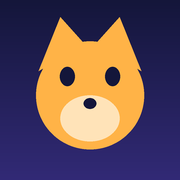
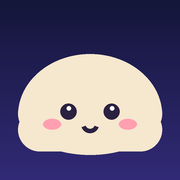
Design Kosmos fix; Squishy-Sammelfiguren statt Emoji-Karten
Claude-Session: https://claude.ai/code/session_012qiEtfc3RtZR4Yoy45UriJ

diff --git a/js/app.js b/js/app.js
@@ -1,11 +1,7 @@
 import { SUBJECTS, GRADES, CARDS, RARITY, ligaFor, buildQuestions, rollCard } from './data.js';
+import { squishy } from './squishy.js';
 import { load, save, newProfile, today, yesterday, weekKey, daysUntil } from './store.js';
 
-const THEMES = {
-  cosmos: { name: 'Kosmos', emoji: '🚀', blurb: 'Dunkles Weltall, Sternenwesen' },
-  wald:   { name: 'Waldlichtung', emoji: '🌲', blurb: 'Warm & ruhig, Papier-Look' },
-  arena:  { name: 'Arena', emoji: '🏟', blurb: 'Hell & kontrastreich, Comic-Rand' },
-};
 const PATH_NODES = 8;
 const SESSIONS_FOR_BOSS = 3;
 const SESSIONS_GOAL = 5;
@@ -17,12 +13,6 @@ const $app = document.getElementById('app');
 const esc = (s) => String(s).replace(/[&<>"']/g, (c) => ({ '&': '&amp;', '<': '&lt;', '>': '&gt;', '"': '&quot;', "'": '&#39;' }[c]));
 const P = () => S.profiles.find((p) => p.id === S.active) || null;
 const commit = () => { save(S); render(); };
-
-function applyTheme() {
-  document.documentElement.dataset.theme = S.theme;
-  const meta = document.querySelector('meta[name="theme-color"]');
-  if (meta) meta.content = getComputedStyle(document.documentElement).getPropertyValue('--bg').trim() || '#14163a';
-}
 
 function rollWeek(p) {
   const wk = weekKey();
@@ -94,8 +84,8 @@ function viewCollection(p) {
   const owned = CARDS.filter((c) => p.cards[c.id]).length;
   const grid = CARDS.map((c) => {
     const n = p.cards[c.id] || 0;
-    return n ? `<button class="tcg ${c.rarity}" data-a="sheet" data-v="card:${c.id}"><div class="art">${c.emoji}</div><b>${c.name}</b><small>${RARITY[c.rarity].name}${n > 1 ? ` · ×${n}` : ''}</small></button>`
-      : `<div class="tcg locked"><div class="art">❔</div><b>???</b><small>${SUBJECTS[c.subject].name}</small></div>`;
+    return n ? `<button class="tcg ${c.rarity}" data-a="sheet" data-v="card:${c.id}"><div class="art" data-a="squish">${squishy(c)}</div><b>${c.name}</b><small>${RARITY[c.rarity].name}${n > 1 ? ` · ×${n}` : ''}</small></button>`
+      : `<div class="tcg locked"><div class="art">${squishy(c)}</div><b>???</b><small>${SUBJECTS[c.subject].name}</small></div>`;
   }).join('');
   return `<main><h1>Sammlung</h1><p class="muted">${owned} von ${CARDS.length} Lernwesen gefunden</p><div class="grid">${grid}</div></main>`;
 }
@@ -130,7 +120,7 @@ function viewLesson() {
 function viewResult() {
   const R = ui.result, c = R.card;
   const reveal = c ? (R.opened
-    ? `<div class="tcg big ${c.rarity} pop"><div class="art">${c.emoji}</div><b>${c.name}</b><small>${RARITY[c.rarity].name}</small><p>${esc(c.text)}</p></div>`
+    ? `<div class="tcg big ${c.rarity} pop"><div class="art" data-a="squish">${squishy(c)}</div><b>${c.name}</b><small>${RARITY[c.rarity].name}</small><p>${esc(c.text)}</p></div>`
     : `<button class="pack" data-a="open">🎁<span>Karten-Pack öffnen</span></button>`) : '<p class="muted">Für ein Karten-Pack brauchst du mindestens 60 % richtig. Probier es gleich nochmal!</p>';
   return `<main class="center"><h1>${R.boss ? (R.won ? '👑 Boss besiegt!' : 'Fast geschafft!') : R.perfect ? '🌟 Perfekt!' : 'Geschafft!'}</h1>
     <p class="big-num">${R.correct} / ${R.total} <span class="muted">sofort richtig</span></p>
@@ -142,8 +132,7 @@ function sheet(p) {
   if (!ui.sheet) return '';
   let body = '';
   if (ui.sheet === 'settings') {
-    body = `<h2>Einstellungen</h2><h3>Design</h3><div class="themes">${Object.entries(THEMES).map(([k, t]) => `<button class="card theme ${S.theme === k ? 'on' : ''}" data-a="theme" data-v="${k}"><span class="big-emoji">${t.emoji}</span><b>${t.name}</b><small>${t.blurb}</small></button>`).join('')}</div>
-      <h3>Klasse</h3><div class="seg">${GRADES.map((g) => `<button class="${p.grade === g ? 'on' : ''}" data-a="grade" data-v="${g}">Klasse ${g}</button>`).join('')}</div>
+    body = `<h2>Einstellungen</h2><h3>Klasse</h3><div class="seg">${GRADES.map((g) => `<button class="${p.grade === g ? 'on' : ''}" data-a="grade" data-v="${g}">Klasse ${g}</button>`).join('')}</div>
       <div class="row wrap"><button class="btn ghost" data-a="switch">Held wechseln</button><button class="btn ghost danger" data-a="reset">${ui.confirm === 'reset' ? 'Wirklich alles löschen?' : 'Alles zurücksetzen'}</button></div>`;
   } else if (ui.sheet === 'newproject') {
     body = `<h2>Neue Klassenarbeit</h2><form data-f="newproject"><label>Fach<select name="subject">${Object.entries(SUBJECTS).map(([k, s]) => `<option value="${k}" ${k === ui.subject ? 'selected' : ''}>${s.name}</option>`).join('')}</select></label>
@@ -152,7 +141,7 @@ function sheet(p) {
       <button class="btn" type="submit">Anlegen</button></form>`;
   } else if (ui.sheet.startsWith('card:')) {
     const c = CARDS.find((x) => x.id === ui.sheet.slice(5));
-    body = `<div class="tcg big ${c.rarity}"><div class="art">${c.emoji}</div><b>${c.name}</b><small>${RARITY[c.rarity].name} · ${SUBJECTS[c.subject].name}</small><p>${esc(c.text)}</p></div>`;
+    body = `<div class="tcg big ${c.rarity}"><div class="art" data-a="squish">${squishy(c)}</div><b>${c.name}</b><small>${RARITY[c.rarity].name} · ${SUBJECTS[c.subject].name}</small><p>${esc(c.text)}</p></div>`;
   }
   return `<div class="scrim" data-a="closesheet"><section class="sheet" data-stop><button class="x close" data-a="closesheet" aria-label="Schließen">✕</button>${body}</section></div>`;
 }
@@ -232,7 +221,6 @@ document.addEventListener('click', (e) => {
     case 'pick': S.active = v; break;
     case 'sheet': ui.sheet = v; ui.confirm = null; break;
     case 'closesheet': ui.sheet = null; ui.confirm = null; break;
-    case 'theme': S.theme = v; applyTheme(); break;
     case 'grade': p.grade = Number(v); break;
     case 'switch': S.active = null; ui.sheet = null; break;
     case 'reset': if (ui.confirm === 'reset') { S = { ...S, active: null, profiles: [] }; ui.sheet = null; ui.confirm = null; } else ui.confirm = 'reset'; break;
@@ -245,6 +233,7 @@ document.addEventListener('click', (e) => {
     case 'next': return next();
     case 'quit': ui.lesson = null; break;
     case 'open': ui.result.opened = true; break;
+    case 'squish': { t.classList.remove('squish'); void t.offsetWidth; t.classList.add('squish'); return; }
     case 'done': ui.result = null; break;
   }
   commit();
@@ -270,9 +259,6 @@ document.addEventListener('submit', (e) => {
 });
 
 // ------------------------------------------------------------ Start
-const qTheme = new URLSearchParams(location.search).get('theme'); // ?theme=wald zum Testen
-if (qTheme && THEMES[qTheme]) S.theme = qTheme;
-applyTheme();
 render();
 if ('serviceWorker' in navigator && location.protocol.startsWith('http')) {
   navigator.serviceWorker.register('./sw.js').catch(() => { /* z. B. Vorschau-Sandbox */ });

diff --git a/js/data.js b/js/data.js
@@ -17,21 +17,24 @@ export const RARITY = {
 };
 
 export const CARDS = [
-  { id: 'zahlenkaefer',  name: 'Zahlenkäfer',      emoji: '🐞', subject: 'mathe',    rarity: 'common',    text: 'Zählt alles. Auch dich.' },
-  { id: 'rechenigel',    name: 'Rechenigel',       emoji: '🦔', subject: 'mathe',    rarity: 'common',    text: 'Stachelt dich zum Rechnen an.' },
-  { id: 'plussaurier',   name: 'Plus-Saurier',     emoji: '🦖', subject: 'mathe',    rarity: 'rare',      text: 'Frisst Minusaufgaben zum Frühstück.' },
-  { id: 'nullgeist',     name: 'Nullgeist',        emoji: '👻', subject: 'mathe',    rarity: 'epic',      text: 'Macht alles zu Null – nur nicht dich.' },
-  { id: 'kronendrache',  name: 'Kronendrache',     emoji: '🐲', subject: 'mathe',    rarity: 'legendary', text: 'Hüter der Mathe-Arbeit.' },
-  { id: 'buchstabenmaus', name: 'Buchstabenmaus',  emoji: '🐭', subject: 'deutsch',  rarity: 'common',    text: 'Knabbert an langen Wörtern.' },
-  { id: 'reimeule',      name: 'Reimeule',         emoji: '🦉', subject: 'deutsch',  rarity: 'common',    text: 'Reimt sich alles zurecht.' },
-  { id: 'silbenfrosch',  name: 'Silbenfrosch',     emoji: '🐸', subject: 'deutsch',  rarity: 'rare',      text: 'Hüpft von Silbe zu Silbe.' },
-  { id: 'satzdelfin',    name: 'Satzdelfin',       emoji: '🐬', subject: 'deutsch',  rarity: 'epic',      text: 'Springt über jeden Satzbau.' },
-  { id: 'maerchenhorn',  name: 'Märchenhorn',      emoji: '🦄', subject: 'deutsch',  rarity: 'legendary', text: 'Hüter der Deutsch-Arbeit.' },
-  { id: 'wortfuchs',     name: 'Wortfuchs',        emoji: '🦊', subject: 'englisch', rarity: 'common',    text: 'Schlau wie ein Fuchs, auf Englisch.' },
-  { id: 'wortpapagei',   name: 'Wortpapagei',      emoji: '🦜', subject: 'englisch', rarity: 'common',    text: 'Spricht nach – und versteht auch.' },
-  { id: 'englischloewe', name: 'Englisch-Löwe',    emoji: '🦁', subject: 'englisch', rarity: 'rare',      text: 'Brüllt „Hello!“ in den Dschungel.' },
-  { id: 'brueckenadler', name: 'Brückenadler',     emoji: '🦅', subject: 'englisch', rarity: 'epic',      text: 'Fliegt zwischen den Sprachen.' },
-  { id: 'weltenfalke',   name: 'Weltenfalke',      emoji: '🦚', subject: 'englisch', rarity: 'legendary', text: 'Hüter der Englisch-Arbeit.' },
+  // Mathe
+  { id: 'rechenknoedel',  name: 'Rechenknödel',    shape: 'dumpling', color: 'cream',   face: 'happy',  acc: 'none',   subject: 'mathe',    rarity: 'common',    text: 'Zählt jede Falte nach. Dreimal.' },
+  { id: 'butterklops',    name: 'Butterklops Bruno', shape: 'butter',  color: 'butter',  face: 'sleepy', acc: 'none',   subject: 'mathe',    rarity: 'common',    text: 'Schmilzt bei schwierigen Aufgaben – und rechnet trotzdem weiter.' },
+  { id: 'pluspudding',    name: 'Plus-Pudding',    shape: 'pudding',  color: 'caramel', face: 'cat',    acc: 'bow',    subject: 'mathe',    rarity: 'rare',      text: 'Wackelt vor Freude bei jedem Plus.' },
+  { id: 'nullmochi',      name: 'Null-Mochi',      shape: 'mochi',    color: 'lilac',   face: 'wow',    acc: 'halo',   subject: 'mathe',    rarity: 'epic',      text: 'Aus Nichts wird bei ihm ganz viel.' },
+  { id: 'kronenbao',      name: 'Kronen-Bao',      shape: 'bao',      color: 'sky',     face: 'happy',  acc: 'crown',  subject: 'mathe',    rarity: 'legendary', text: 'Hüter der Mathe-Arbeit.' },
+  // Deutsch
+  { id: 'silbendumpling', name: 'Silben-Dumpling', shape: 'dumpling', color: 'mint',    face: 'cat',    acc: 'sprout', subject: 'deutsch',  rarity: 'common',    text: 'Hüpft von Silbe zu Silbe.' },
+  { id: 'buchstabenbutter', name: 'Buchstaben-Butter', shape: 'butter', color: 'peach', face: 'happy',  acc: 'none',   subject: 'deutsch',  rarity: 'common',    text: 'Streicht sich auf jedes Wort.' },
+  { id: 'reimbao',        name: 'Reim-Bao',        shape: 'bao',      color: 'pink',    face: 'cat',    acc: 'bow',    subject: 'deutsch',  rarity: 'rare',      text: 'Haus – Maus – Klaus! Reimt sich alles zurecht.' },
+  { id: 'satzmochi',      name: 'Satz-Mochi',      shape: 'mochi',    color: 'mint',    face: 'wow',    acc: 'sprout', subject: 'deutsch',  rarity: 'epic',      text: 'Dehnt jeden Satz bis er passt.' },
+  { id: 'maerchenpudding', name: 'Märchen-Pudding', shape: 'pudding', color: 'lilac',   face: 'sleepy', acc: 'crown',  subject: 'deutsch',  rarity: 'legendary', text: 'Hüter der Deutsch-Arbeit.' },
+  // Englisch
+  { id: 'wortmochi',      name: 'Wort-Mochi',      shape: 'mochi',    color: 'sky',     face: 'happy',  acc: 'none',   subject: 'englisch', rarity: 'common',    text: 'Sagt „Hello!“ zu jedem.' },
+  { id: 'helloknoedel',   name: 'Hello-Knödel',    shape: 'dumpling', color: 'peach',   face: 'wow',    acc: 'none',   subject: 'englisch', rarity: 'common',    text: 'Gut gefüllt mit Vokabeln.' },
+  { id: 'loewenbutter',   name: 'Löwen-Butter',    shape: 'butter',   color: 'caramel', face: 'cat',    acc: 'bow',    subject: 'englisch', rarity: 'rare',      text: 'Brüllt leise, aber mit Akzent.' },
+  { id: 'brueckenbao',    name: 'Brücken-Bao',     shape: 'bao',      color: 'mint',    face: 'sleepy', acc: 'halo',   subject: 'englisch', rarity: 'epic',      text: 'Baut Brücken zwischen den Sprachen.' },
+  { id: 'weltendumpling', name: 'Welten-Dumpling', shape: 'dumpling', color: 'pink',    face: 'happy',  acc: 'crown',  subject: 'englisch', rarity: 'legendary', text: 'Hüter der Englisch-Arbeit.' },
 ];
 
 // ---- Ligen (lokal, nach Gesamt-Fachpunkten) ----

diff --git a/js/squishy.js b/js/squishy.js
@@ -1,0 +1,53 @@
+// Eigene Squishy-Figuren als SVG (rein prozedural, keine fremden Figuren, keine Bilddateien).
+// squishy({ shape, color, face, acc, rarity }) -> SVG-String (viewBox 0 0 100 100)
+
+const TOP = { dumpling: 30, butter: 34, mochi: 28, bao: 24, pudding: 40 }; // y-Oberkante, für Accessoires
+
+export const COLORS = {
+  cream: '#f6e7cf', butter: '#ffd966', pink: '#ffc9de', lilac: '#d9c8ff', mint: '#b8f0d8', sky: '#bfe3ff', peach: '#ffd0b0', caramel: '#ffb866',
+};
+
+const BODY = {
+  dumpling: (c) => `<path d="M10 64 Q10 30 50 30 Q90 30 90 64 Q90 84 50 84 Q10 84 10 64Z" fill="${c}"/>
+    <path d="M30 36 Q33 44 38 38 M45 32 Q50 42 55 32 M62 38 Q67 44 70 36" fill="none" stroke="#00000022" stroke-width="2.5" stroke-linecap="round"/>`,
+  butter: (c) => `<rect x="14" y="34" width="72" height="48" rx="16" fill="${c}"/>
+    <path d="M14 50 Q14 34 30 34 L70 34 Q86 34 86 50 Q80 44 72 48 Q64 52 58 46 Q50 42 42 48 Q34 52 28 46 Q20 44 14 50Z" fill="#fff3b0"/>`,
+  mochi: (c) => `<ellipse cx="50" cy="58" rx="38" ry="30" fill="${c}"/>`,
+  bao: (c) => `<circle cx="50" cy="56" r="33" fill="${c}"/>
+    <path d="M50 24 Q60 26 58 34 Q56 40 48 38 Q42 36 44 30" fill="none" stroke="#00000022" stroke-width="2.5" stroke-linecap="round"/>`,
+  pudding: (c) => `<path d="M24 44 L76 44 L86 82 L14 82Z" fill="${c}" stroke="${c}" stroke-width="10" stroke-linejoin="round"/>
+    <path d="M18 42 Q50 28 82 42 Q82 52 74 50 Q70 60 62 50 Q50 54 40 50 Q30 60 26 50 Q18 52 18 42Z" fill="#8a4b24"/>`,
+};
+
+const EYES = '#2a2140';
+const FACE = {
+  happy: () => `<circle cx="38" cy="62" r="4" fill="${EYES}"/><circle cx="62" cy="62" r="4" fill="${EYES}"/><circle cx="39.2" cy="60.6" r="1.4" fill="#fff"/><circle cx="63.2" cy="60.6" r="1.4" fill="#fff"/><path d="M45 69 Q50 74 55 69" fill="none" stroke="${EYES}" stroke-width="2.4" stroke-linecap="round"/>`,
+  cat: () => `<circle cx="38" cy="62" r="4" fill="${EYES}"/><circle cx="62" cy="62" r="4" fill="${EYES}"/><circle cx="39.2" cy="60.6" r="1.4" fill="#fff"/><circle cx="63.2" cy="60.6" r="1.4" fill="#fff"/><path d="M44 68 Q47 73 50 68 Q53 73 56 68" fill="none" stroke="${EYES}" stroke-width="2.2" stroke-linecap="round" stroke-linejoin="round"/>`,
+  wow: () => `<circle cx="38" cy="61" r="5" fill="${EYES}"/><circle cx="62" cy="61" r="5" fill="${EYES}"/><circle cx="39.6" cy="59.2" r="1.8" fill="#fff"/><circle cx="63.6" cy="59.2" r="1.8" fill="#fff"/><ellipse cx="50" cy="71" rx="3" ry="3.6" fill="${EYES}"/>`,
+  sleepy: () => `<path d="M33 62 Q38 57 43 62 M57 62 Q62 57 67 62" fill="none" stroke="${EYES}" stroke-width="2.6" stroke-linecap="round"/><path d="M45 69 Q50 74 55 69" fill="none" stroke="${EYES}" stroke-width="2.4" stroke-linecap="round"/>`,
+};
+const BLUSH = '<ellipse cx="29" cy="69" rx="5" ry="3" fill="#ff8fa3" opacity=".55"/><ellipse cx="71" cy="69" rx="5" ry="3" fill="#ff8fa3" opacity=".55"/>';
+
+const star = (x, y, s) => `<path transform="translate(${x} ${y}) scale(${s})" d="M0 -6 Q1 -1 6 0 Q1 1 0 6 Q-1 1 -6 0 Q-1 -1 0 -6Z" fill="#ffe27a"/>`;
+const ACC = {
+  none: () => '',
+  sprout: () => '<path d="M50 4 Q48 -8 40 -10 Q42 0 50 4Z M50 4 Q54 -8 62 -8 Q60 2 50 4Z" fill="#59c98a"/>',
+  bow: () => '<path d="M62 2 L74 -6 L74 10Z M62 2 L50 -6 L50 10Z" fill="#ff6fa0"/><circle cx="62" cy="2" r="3.4" fill="#ff3d82"/>',
+  halo: () => '<ellipse cx="50" cy="-8" rx="15" ry="4.5" fill="none" stroke="#ffd45a" stroke-width="3"/>',
+  crown: () => '<path d="M33 4 L35 -12 L43 -4 L50 -16 L57 -4 L65 -12 L67 4Z" fill="#ffc531" stroke="#e0a000" stroke-width="1.5" stroke-linejoin="round"/><circle cx="50" cy="-9" r="2" fill="#ff6fa0"/>',
+};
+
+export function squishy(card) {
+  const { shape = 'mochi', color = 'cream', face = 'happy', acc = 'none', rarity = 'common' } = card;
+  const fill = COLORS[color] || color;
+  const top = TOP[shape] ?? 30;
+  const legendary = rarity === 'legendary', epic = rarity === 'epic';
+  const accessory = acc !== 'none' ? acc : legendary ? 'crown' : 'none';
+  const glow = legendary ? '<circle cx="50" cy="55" r="46" fill="#ffc531" opacity=".22"/>' : '';
+  const sparkles = (legendary || epic) ? star(12, 22, 1.3) + star(88, 30, 1) + star(80, 10, 1.1) : rarity === 'rare' ? star(86, 24, 1) : '';
+  return `<svg class="squishy" viewBox="0 0 100 100" role="img" aria-label="Squishy" xmlns="http://www.w3.org/2000/svg">${glow}
+    <ellipse cx="50" cy="88" rx="30" ry="5" fill="#00000030"/>
+    <g class="sq-body">${BODY[shape](fill)}<ellipse cx="34" cy="46" rx="9" ry="4.5" fill="#fff" opacity=".35" transform="rotate(-20 34 46)"/>
+    ${(FACE[face] || FACE.happy)()}${BLUSH}
+    <g transform="translate(0 ${top - 30})">${(ACC[accessory] || ACC.none)()}</g></g>${sparkles}</svg>`;
+}

diff --git a/css/app.css b/css/app.css
@@ -1,21 +1,9 @@
-/* Drei Design-Themes über CSS-Variablen. Umschalten: <html data-theme="cosmos|wald|arena"> */
-:root, [data-theme="cosmos"] {
+/* Design „Kosmos“ (gewählt). Farben über CSS-Variablen. */
+:root {
   --bg: #14163a; --surface: #202459; --surface2: #2b3070; --ink: #f4f3ff; --muted: #a9acd9;
   --primary: #ffb347; --primary-ink: #3a2200; --accent: #7c83ff; --good: #4fd18b; --bad: #ff6b81;
   --line: transparent; --lw: 0px; --radius: 22px; --shadow: 0 6px 0 rgba(0,0,0,.35);
   --bg-img: radial-gradient(circle at 15% 10%, rgba(124,131,255,.25), transparent 40%), radial-gradient(circle at 90% 80%, rgba(255,179,71,.15), transparent 40%);
-}
-[data-theme="wald"] {
-  --bg: #f6efdd; --surface: #fffaf0; --surface2: #efe4c8; --ink: #2f3b2a; --muted: #7b816c;
-  --primary: #3f8f5a; --primary-ink: #ffffff; --accent: #e0883a; --good: #3f8f5a; --bad: #c8553d;
-  --line: #d9cba8; --lw: 2px; --radius: 20px; --shadow: 0 4px 0 #d9cba8;
-  --bg-img: none;
-}
-[data-theme="arena"] {
-  --bg: #e9f3ff; --surface: #ffffff; --surface2: #dbe9ff; --ink: #14213d; --muted: #52618a;
-  --primary: #2f6bff; --primary-ink: #ffffff; --accent: #ff5d8f; --good: #1fa971; --bad: #e5384f;
-  --line: #14213d; --lw: 3px; --radius: 14px; --shadow: 4px 4px 0 #14213d;
-  --bg-img: none;
 }
 
 * { box-sizing: border-box; -webkit-tap-highlight-color: transparent; }
@@ -92,7 +80,7 @@ button:disabled { opacity: .45; cursor: default; }
 .grid { display: grid; grid-template-columns: repeat(auto-fill, minmax(150px, 1fr)); gap: 14px; }
 .tcg { --rc: #9aa3b8; display: grid; justify-items: center; gap: 2px; padding: 12px 8px; border-radius: var(--radius); background: var(--surface); border: calc(var(--lw) + 3px) solid var(--rc); box-shadow: var(--shadow); text-align: center; color: var(--ink); }
 .tcg.common { --rc: #9aa3b8; } .tcg.rare { --rc: #4aa3ff; } .tcg.epic { --rc: #b16bff; } .tcg.legendary { --rc: #ffc531; background: linear-gradient(135deg, var(--surface), color-mix(in srgb, #ffc531 30%, var(--surface))); }
-.tcg .art { font-size: 56px; background: color-mix(in srgb, var(--rc) 22%, var(--surface2)); border-radius: 16px; width: 100%; padding: 10px 0; }
+.tcg .art { font-size: 56px; cursor: pointer; background: color-mix(in srgb, var(--rc) 22%, var(--surface2)); border-radius: 16px; width: 100%; padding: 10px 0; }
 .tcg.locked { opacity: .5; filter: grayscale(1); }
 .tcg.big { width: min(300px, 80vw); margin: 10px auto; padding: 18px; } .tcg.big .art { font-size: 110px; }
 .tcg.pop { animation: pop .6s cubic-bezier(.2,1.4,.4,1); }
@@ -103,8 +91,15 @@ button:disabled { opacity: .45; cursor: default; }
 /* Sheet */
 .scrim { position: fixed; inset: 0; background: rgba(0,0,0,.5); display: grid; align-items: end; z-index: 20; }
 .sheet { position: relative; background: var(--bg); border-radius: 28px 28px 0 0; padding: 22px 18px calc(24px + env(safe-area-inset-bottom)); max-width: 760px; width: 100%; margin: 0 auto; max-height: 90dvh; overflow: auto; border: var(--lw) solid var(--line); }
-.themes { display: grid; grid-template-columns: repeat(3, 1fr); gap: 10px; }
-.theme { display: grid; gap: 2px; justify-items: center; text-align: center; margin: 0; padding: 12px 6px; }
-.theme.on { outline: 4px solid var(--primary); } .big-emoji { font-size: 38px; }
 
 @media (prefers-reduced-motion: reduce) { * { animation: none !important; transition: none !important; } }
+
+/* Squishy */
+.squishy { width: 100%; height: auto; display: block; overflow: visible; transform-origin: 50% 90%; }
+.tcg .art { padding: 14px 10px 6px; } .tcg.big .art { padding: 20px 20px 10px; }
+.squish .squishy { animation: squish .55s cubic-bezier(.3,1.6,.5,1); }
+@keyframes squish { 0% { transform: scale(1,1); } 25% { transform: scale(1.18,.7); } 55% { transform: scale(.9,1.14); } 80% { transform: scale(1.05,.96); } 100% { transform: scale(1,1); } }
+.tcg.locked .squishy { filter: brightness(0) opacity(.25); }
+.tcg.locked .art { cursor: default; }
+.tcg.pop .squishy { animation: wobble 2.4s ease-in-out .6s infinite; }
+@keyframes wobble { 50% { transform: scale(1.04,.96); } }

diff --git a/sw.js b/sw.js
@@ -1,6 +1,6 @@
 // Offline-First App-Shell. Bei Änderungen an Dateien VERSION erhöhen.
-const VERSION = 'lernhelden-v1';
-const SHELL = ['./', 'index.html', 'manifest.webmanifest', 'css/app.css', 'js/app.js', 'js/data.js', 'js/store.js',
+const VERSION = 'lernhelden-v2';
+const SHELL = ['./', 'index.html', 'manifest.webmanifest', 'css/app.css', 'js/app.js', 'js/data.js', 'js/store.js', 'js/squishy.js',
   'icons/icon-192.png', 'icons/icon-512.png', 'icons/apple-touch-icon.png'];
 
 self.addEventListener('install', (e) => {

diff --git a/CLAUDE.md b/CLAUDE.md
@@ -2,7 +2,7 @@
 
 ## Ziel
 Installierbare Web-App (PWA, iPad zuerst) mit Lernhilfen für Grundschüler **Klasse 1–4**: **Mathe, Deutsch, Englisch**.
-Duolingo-artiger Lernpfad, Belohnung über **Sammelkarten** (statt Sterne/Punkte), Ranking über **Ligen**, und ein
+Duolingo-artiger Lernpfad, Belohnung über **Squishy-Sammelfiguren** (Dumpling, Butterklops, Mochi, Bao, Pudding – Trend „Squishies/Kuscheltier-Blobs“; statt Sterne/Punkte), Ranking über **Ligen**, und ein
 **Klassenarbeits-Modus** (Arbeit mit Datum anlegen → gezielt üben → „Prüfungs-Boss“ → legendäre Karte).
 Zielgruppe: ca. 8 Jahre. Look: kindlich, motivierend, **nicht zu bunt, nicht albern**.
 
@@ -16,7 +16,8 @@ verwendete Schrift (Grundschrift/Schulausgangsschrift) und Lehrwerke der Schule.
 - **Kein Build-Schritt**: Vanilla JS (ES-Module), CSS, keine Frameworks, keine externen CDNs/Fonts (muss offline laufen).
 - **Deutsche UI-Texte** (Kind-gerecht, du-Form, kurze Sätze).
 - **Datenschutz**: Kinder-App → keine Tracker, keine Analytics, keine externen Requests, keine Klarnamen-Pflicht (Vorname/Spitzname reicht).
-- **Keine geschützten Figuren** (kein Pokémon o. Ä.). Alle Wesen/Karten sind eigene Erfindungen; aktuell Emoji-Platzhalter.
+- **Keine geschützten Figuren** (weder Pokémon noch Squishmallows o. Ä.). Alle Squishys sind eigene Erfindungen, prozedural als SVG gezeichnet (`js/squishy.js`: Form × Farbe × Gesicht × Accessoire). Antippen = quetschen (Animation).
+- **Design gewählt: Kosmos** (dunkles Weltall, oranger Akzent). Die anderen Entwürfe (Waldlichtung, Arena) wurden entfernt.
 - Repo-Name/Pages-Pfad: relative URLs verwenden (`./`), da Pages unter `/<repo>/` läuft.
 
 ## Architektur
@@ -24,8 +25,9 @@ verwendete Schrift (Grundschrift/Schulausgangsschrift) und Lehrwerke der Schule.
 index.html            App-Shell, Meta für iPad-Installation (Zum Home-Bildschirm)
 manifest.webmanifest  PWA-Manifest
 sw.js                 Service Worker (cache-first App-Shell). Bei Dateiänderung VERSION erhöhen!
-css/app.css           3 Themes über CSS-Variablen: cosmos | wald | arena (html[data-theme])
+css/app.css           Design „Kosmos“ über CSS-Variablen
 js/data.js            Reine Logik/Inhalte: Fächer, Karten, Ligen, Fragen (statisch + Mathe-Generator), rollCard()
+js/squishy.js         SVG-Generator für die Squishy-Figuren
 js/store.js           localStorage, Profile, Datums-Helfer
 js/app.js             UI: Rendering per Template-Strings, Event-Delegation (data-a / data-f), Lektionen-Ablauf
 tests/*.test.mjs      Node-Tests für data.js (npm test)
@@ -39,7 +41,6 @@ Spielregeln (aktuell in `js/app.js` → `finishLesson`): Lektion = 5 Fragen; fal
 ## Befehle
 - Lokal starten: `npm start` → http://localhost:8080 (Service Worker braucht http(s), nicht file://)
 - Tests: `npm test`
-- Theme testen: `?theme=wald` an die URL hängen
 - iPad: Safari → Teilen → „Zum Home-Bildschirm“
 
 ## Konventionen
@@ -49,4 +50,4 @@ Spielregeln (aktuell in `js/app.js` → `finishLesson`): Lektion = 5 Fragen; fal
 - Kleine, thematische Commits; Datenmodell-Änderungen in `store.js` mit Migration (`v` hochzählen).
 
 ## Nächste Schritte
-Siehe `docs/ROADMAP.md`. Als Erstes: **Design wählen** (`docs/DESIGN.md`, Themes live per Zahnrad-Menü), dann Phase 1.
+Siehe `docs/ROADMAP.md`, Phase 1 (Squishy-Feinschliff, Aufgabentypen, iPad-Test).

diff --git a/docs/DESIGN.md b/docs/DESIGN.md
@@ -1,19 +1,10 @@
-# Designvorschläge (alle drei sind als Theme im Prototyp enthalten)
+# Design: Kosmos (gewählt)
 
-Umschalten: Zahnrad-Menü (Klick auf den Namen oben links) → Design, oder `?theme=cosmos|wald|arena`.
+Dunkles Weltall, oranger Akzent, dicke „Knopf“-Schatten. Die früheren Alternativen (Waldlichtung, Arena) sind nur noch in der Git-Historie (erster Commit).
 
-| Theme | Idee | Stimmung | Karten-Welt |
-|---|---|---|---|
-| **cosmos** 🚀 Kosmos | Dunkles Weltall, orange Akzent, dicke „Knopf“-Schatten | abenteuerlich, „Gaming“, wirkt für 8–10-Jährige am coolsten | Sternenwesen |
-| **wald** 🌲 Waldlichtung | Warmes Papier, Waldgrün, weiche Ränder | ruhig, freundlich, am wenigsten reizüberflutend | Waldtiere |
-| **arena** 🏟 Arena | Hell, dicke dunkle Comic-Ränder, blau/pink | frisch, klar, sehr gut lesbar, Comic-Feeling | Monster-Arena |
-
-Empfehlung zum Testen mit dem Kind: Kosmos vs. Arena (Waldlichtung ist die „ruhige“ Variante für Eltern/Jüngere).
-Entscheidung offen → Auftraggeber wählt; danach die anderen Themes entweder entfernen oder als Auswahl behalten (geringer Aufwand, nur CSS-Variablen).
-
-## Belohnungssystem (Konzept)
-- **Lernwesen-Sammelkarten** statt Sterne: nach jeder gelungenen Lektion ein Karten-Pack (≥60 % richtig). Seltenheit: gewöhnlich / selten / episch / legendär.
+## Belohnungssystem
+- **Squishys sammeln**: weiche Blobs (Dumpling, Butterklops, Mochi, Bao, Pudding) mit Gesicht, eigene Erfindungen, prozedural als SVG (`js/squishy.js`). Antippen quetscht sie.
+- Nach jeder gelungenen Lektion (≥60 % richtig) ein **Karten-Pack**. Seltenheit: gewöhnlich / selten (Schleife) / episch (Heiligenschein, Glitzer) / legendär (Krone, Glanz).
 - **Perfekte Lektion** ⇒ mindestens „selten“. **Prüfungs-Boss** ⇒ garantiert **legendär** (eine je Fach).
-- **Fachpunkte (FP)** laufen im Hintergrund und bestimmen die **Liga** (Holz → Bronze → Silber → Gold → Diamant) und die Wochen-Rangliste.
-- **Lernserie** 🔥 (Tage in Folge).
-- Ideen für später: Glanz-Version bei Doppelten, Karten tauschen/„Deck“ bauen, Sammelalbum je Fach mit Seiten, Wochenziele, Avatar-Zubehör, kleine Karten-Duelle (Quiz gegeneinander), Elternbereich.
+- **Fachpunkte (FP)** laufen im Hintergrund und bestimmen die **Liga** (Holz → Bronze → Silber → Gold → Diamant) und die Wochen-Rangliste. **Lernserie** 🔥 = Tage in Folge.
+- Ideen: Glitzer-Version bei Doppelten, Sammelalbum je Fach, Lieblings-Squishy als Begleiter, Tauschen/Deck, Wochenziele, Elternbereich.

diff --git a/docs/ROADMAP.md b/docs/ROADMAP.md
@@ -5,8 +5,9 @@ PWA-Gerüst, 3 Themes, Lernpfad je Fach/Klasse, Lektionen (Mathe generiert, Deut
 Karten-Packs, Sammlung, Ligen, Klassenarbeits-Projekte inkl. Boss, lokale Profile, Offline-Cache, Pages-Deploy.
 
 ## Phase 1 – Spielgefühl & Design (nächste Aufgabe)
-- [ ] Design-Entscheidung treffen, Rest aufräumen oder als Auswahl lassen
-- [ ] Echte Illustrationen statt Emoji für Karten (SVG, eigene Figuren; 15 → 40 Karten)
+- [x] Design: Kosmos gewählt; Karten sind jetzt Squishys (SVG, prozedural)
+- [ ] Squishys ausbauen: 15 → 40+, mehr Formen (Onigiri, Brötchen, Knetmännchen), Accessoires, Glitzer-Version bei Doppelten, Sammelalbum mit Seiten
+- [ ] Squishy-Zuhause: Lieblings-Squishy als Begleiter auf dem Lernpfad, füttern/streicheln
 - [ ] Animationen/Sounds (Web Audio, abschaltbar), Konfetti bei Boss
 - [ ] Antwort-Typen erweitern: Zahleneingabe (Ziffernblock), Lückentext, Buchstaben legen, Zuordnen
 - [ ] iPad-Feinschliff: Querformat-Layout, Safe Areas, Splash-Screens
@@ -24,7 +25,7 @@ Karten-Packs, Sammlung, Ligen, Klassenarbeits-Projekte inkl. Boss, lokale Profil
 - [ ] Optionale Online-Rangliste/Freunde (nur wenn nötig; braucht Backend → Kosten/Datenschutz vorher klären)
 
 ## Offene Fragen an den Auftraggeber
-1. Welches Design (cosmos / wald / arena)?
+1. ✅ Design: Kosmos
 2. ✅ Bundesland: NRW, Grundschule Füchtorf (48336). Noch offen: Englisch ab welcher Klasse, Schrift, Lehrwerke der Schule
 3. Nur ein Kind/Gerät oder mehrere Profile (aktuell mehrere lokal möglich)?
 4. Wie soll das Repo heißen / soll es öffentlich oder privat sein (Pages privat braucht bezahlten Plan)?
